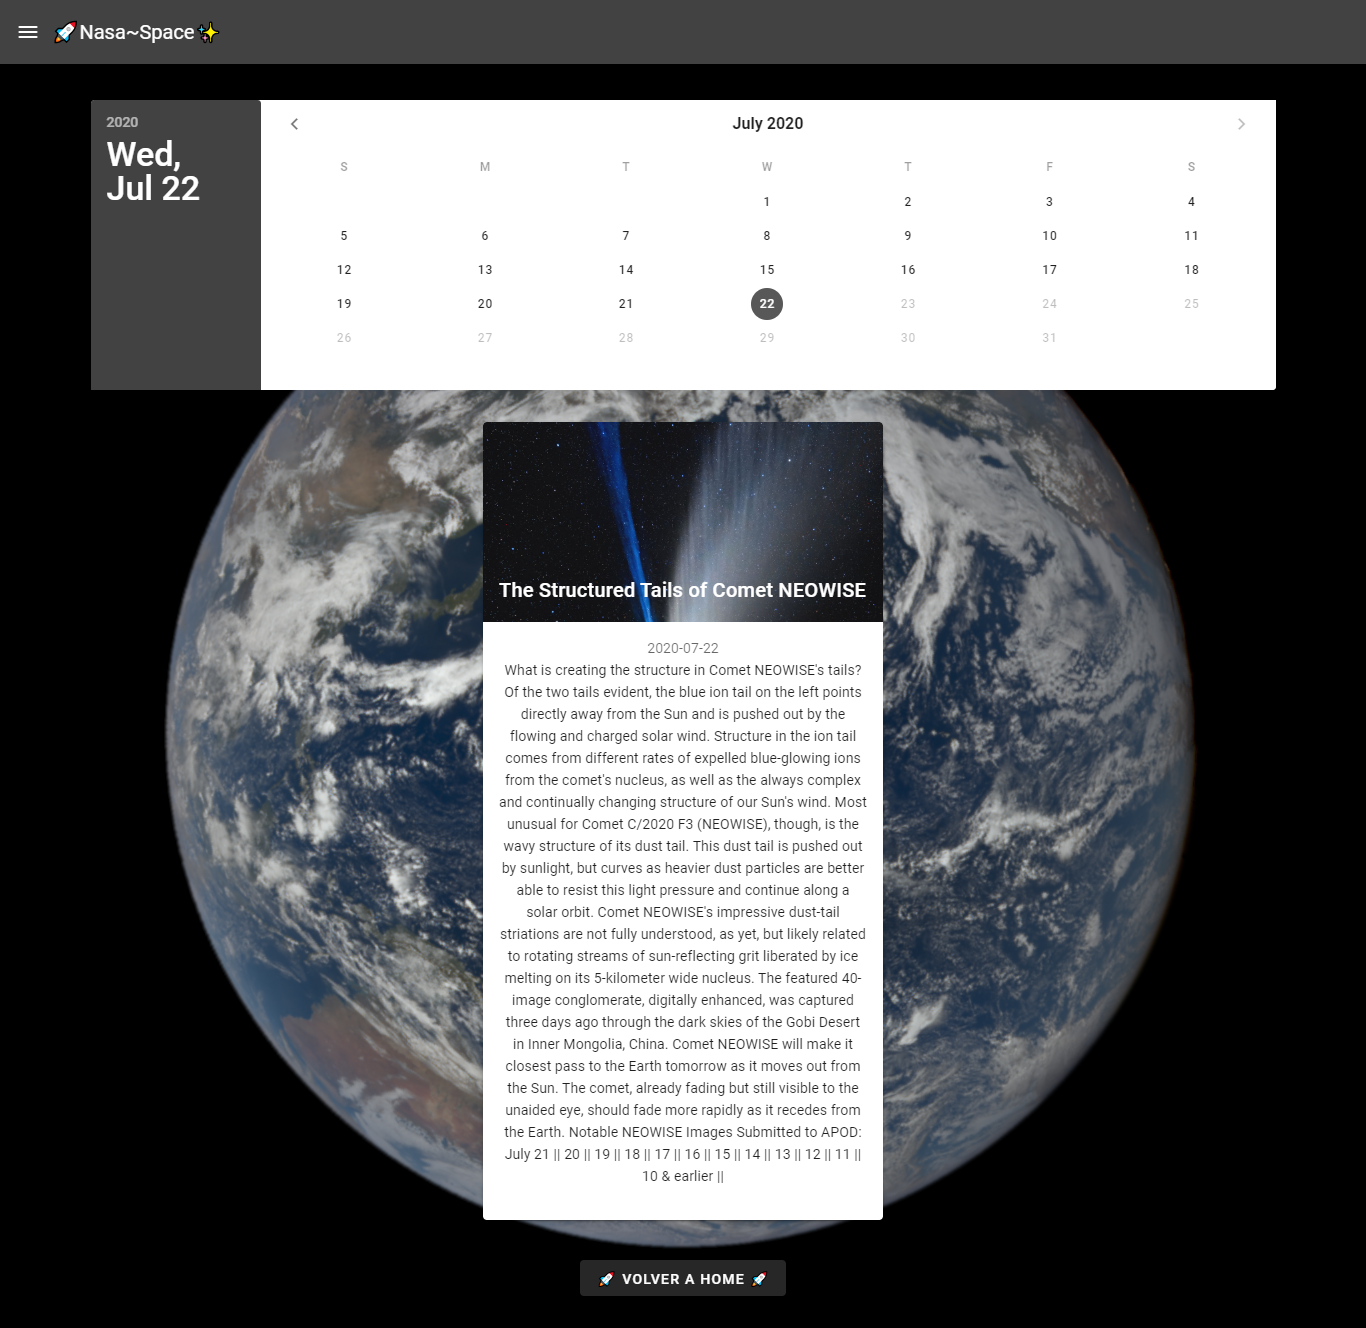
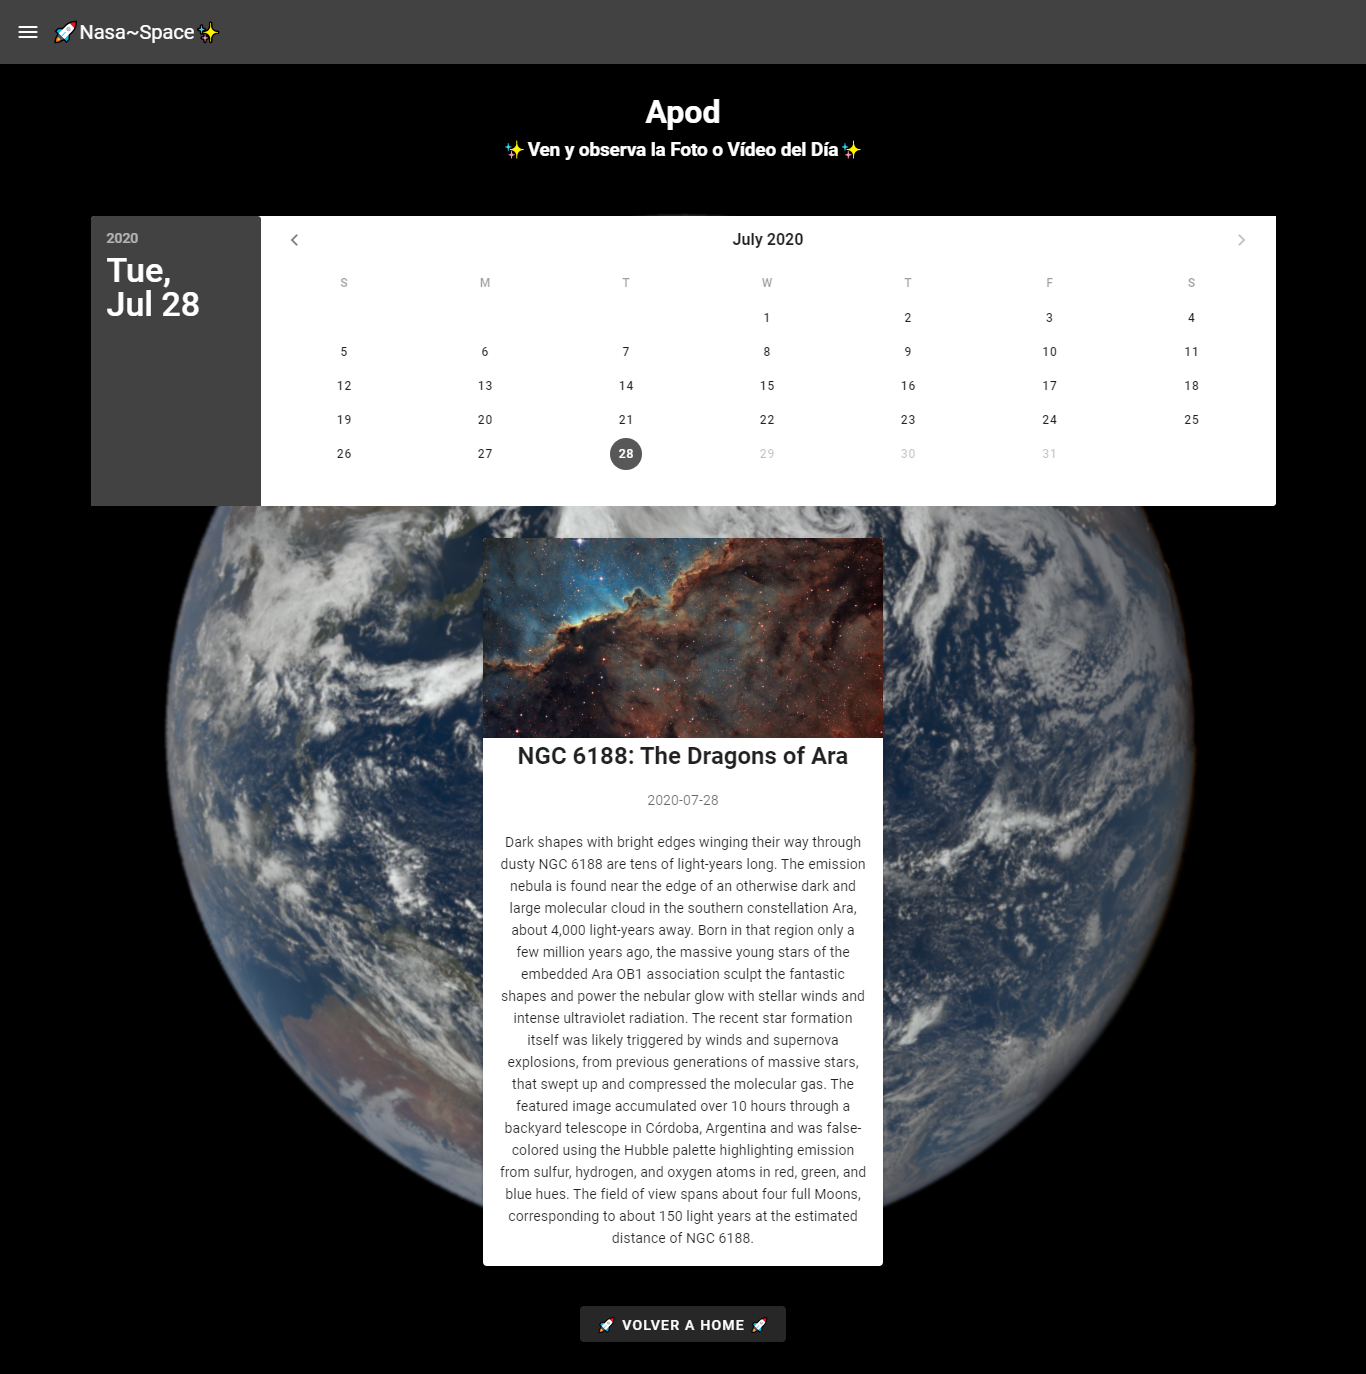
Avance 28 con arreglos en la vista Apod y README

diff --git a/src/views/Apod.vue b/src/views/Apod.vue
@@ -1,5 +1,7 @@
 <template>
   <div class="text-center apod__container">
+    <h1 class="mt-10">Apod</h1>
+    <h3>✨Ven y observa la Foto o Vídeo del Día✨</h3>
     <apod-search/>
     <section class="text-center apod__section">
       <v-btn color="dark" dark to="/home">🚀 Volver a Home 🚀</v-btn>
@@ -21,6 +23,7 @@ export default {
   margin: 0;
   background-image: url(https://api.nasa.gov/EPIC/archive/natural/2019/05/30/png/epic_1b_20190530011359.png?api_key=DEMO_KEY) !important;
   background-size: cover !important;
+  color: #FFF;
 }
 .apod__section {
   margin-top: 1em;
